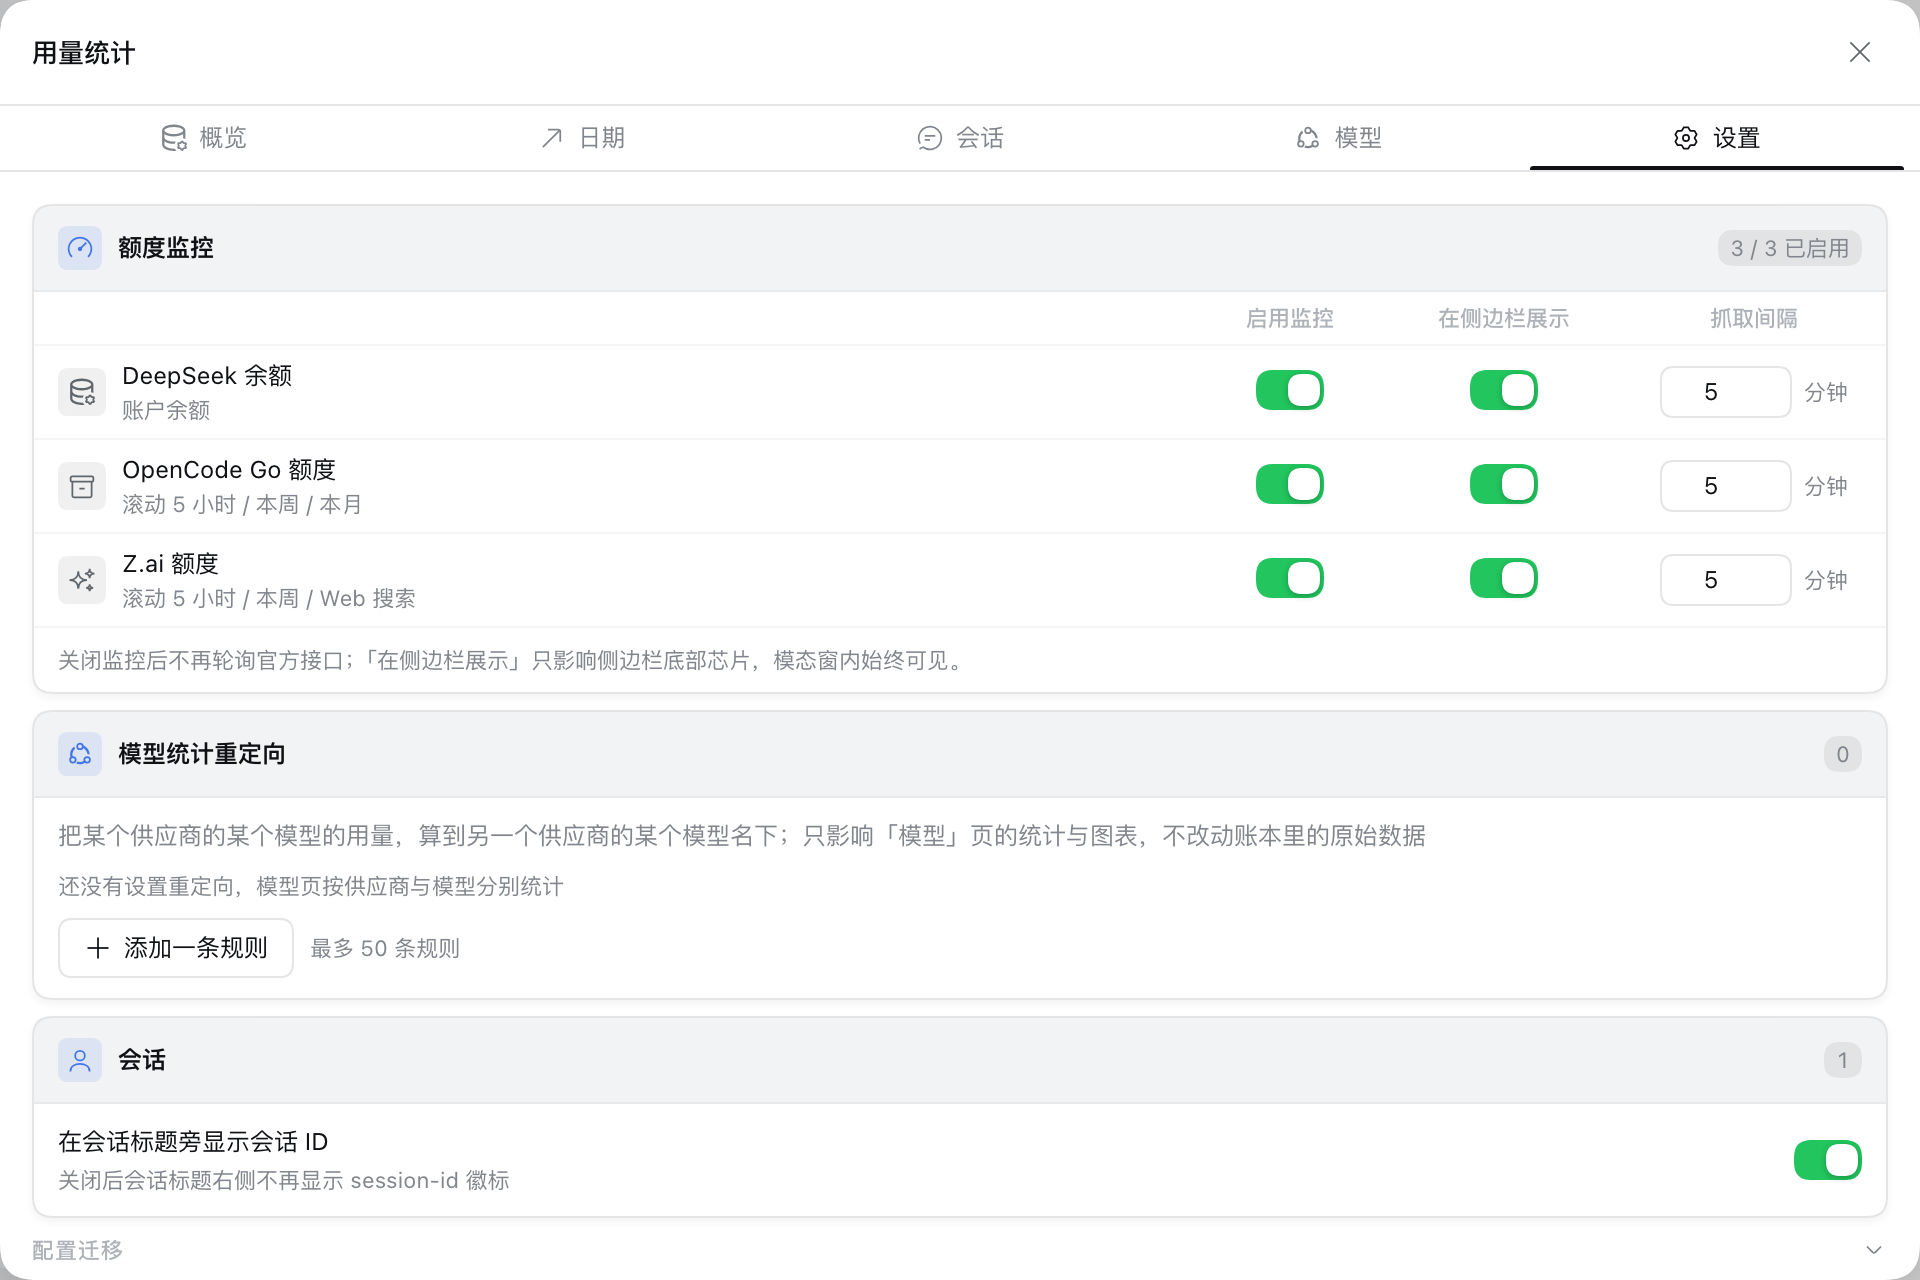
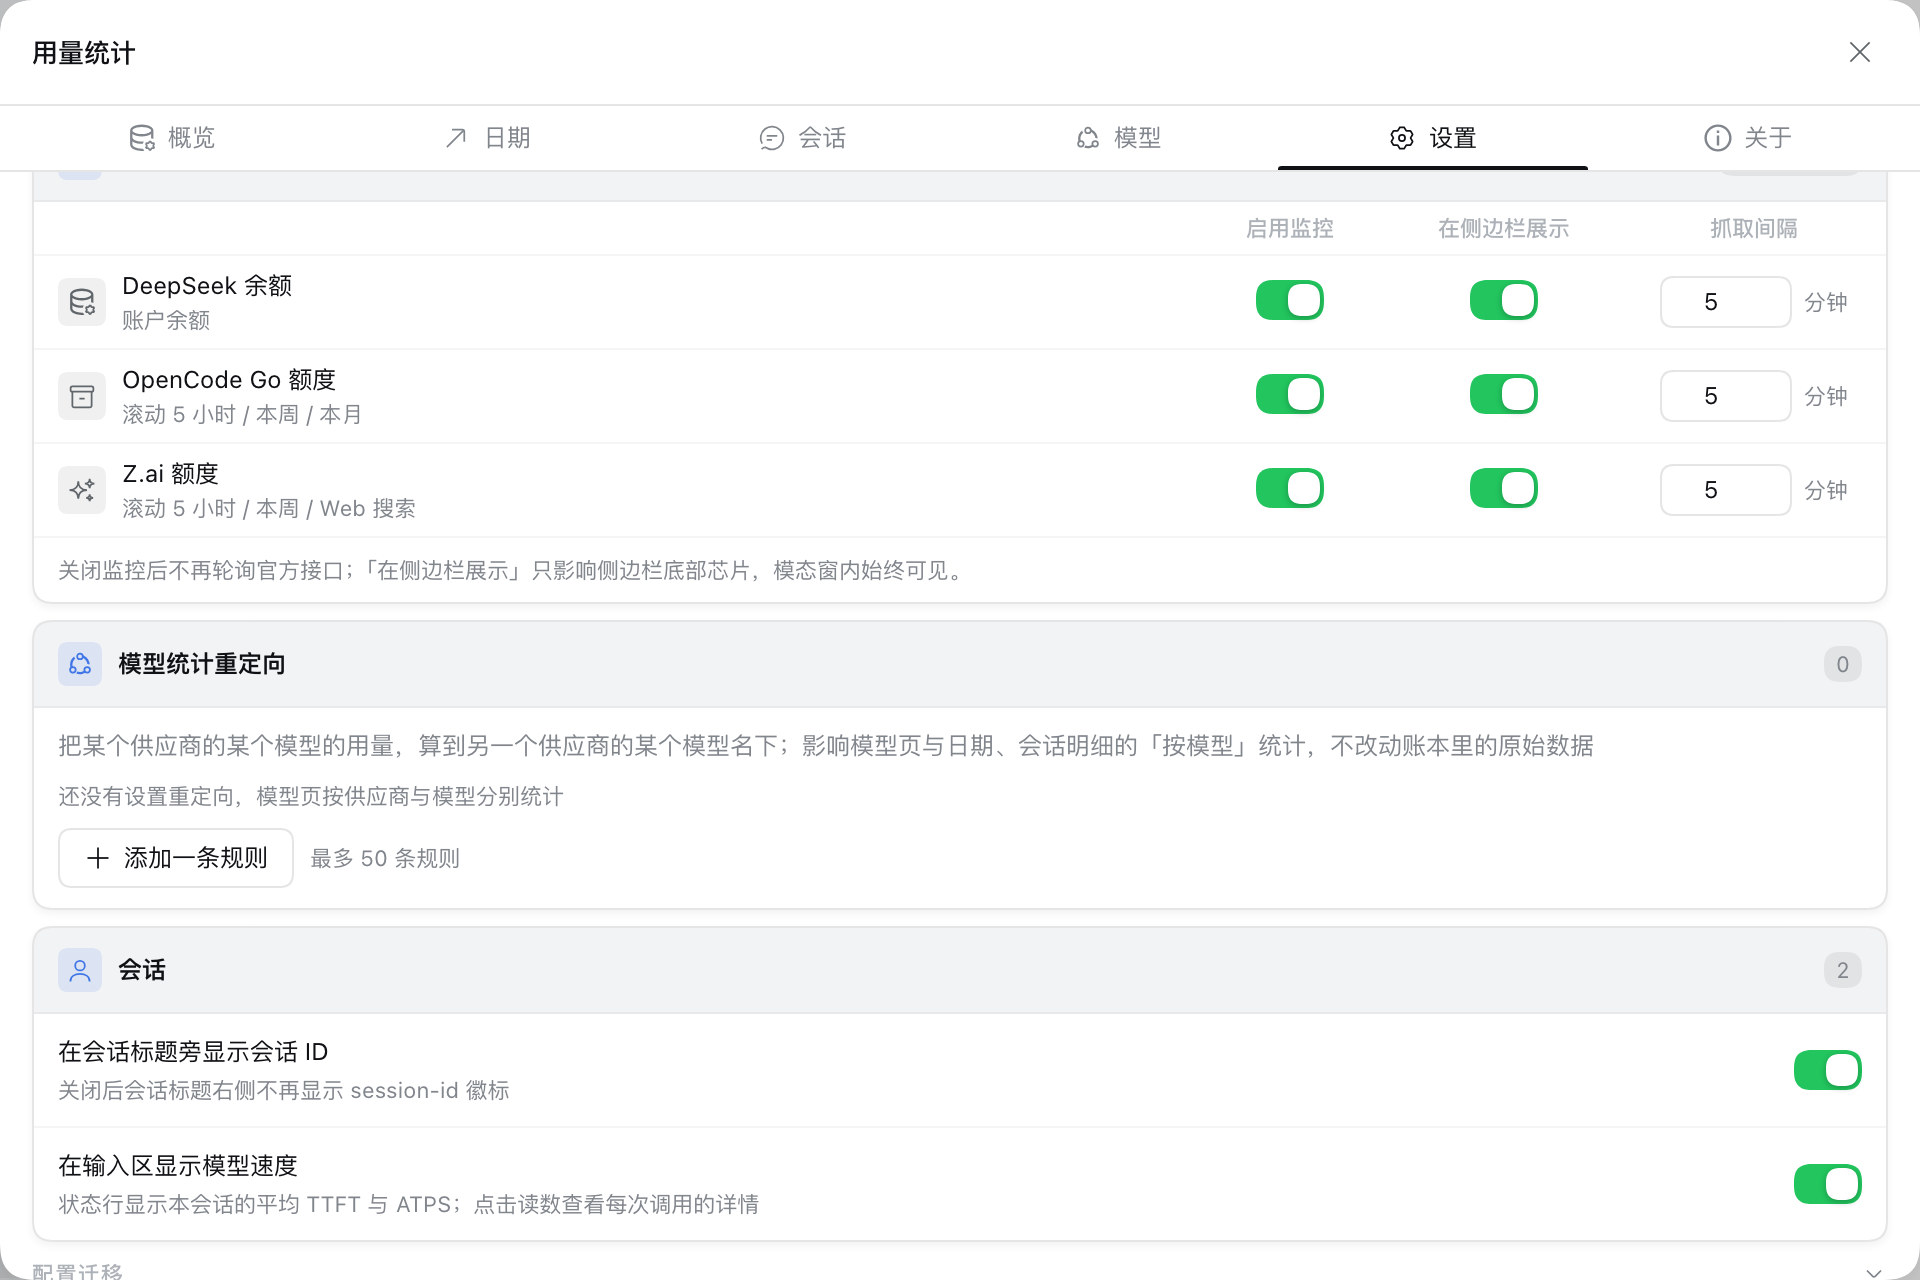
docs: 补充模型速度读数与设置开关说明
- ARCHITECTURE 新增第 7 节，作为 TTFT/ATPS 口径、阶段判定与开关门控的唯一权威；API 设置表加 modelSpeedEnabled 并指向该节。
- README 功能与设置说明、CHANGELOG 的 Unreleased 条目（含旧独立插件的卸载提示）。
- 设置页截图按新的「会话」分组重拍（1920×1280 原图 + 140×93 缩略图）。
- STRUCTURE 重新生成；AGENTS 验证清单与发版技能补 test/speed.mjs。

diff --git a/docs/STRUCTURE.md b/docs/STRUCTURE.md
@@ -76,6 +76,16 @@ dsh-usage-stats/
 │   │   │   ├── Tooltip.module.css ← 自实现 Tooltip：视觉完全复刻 dsh 自带的 Tooltip.module.css（size m、无箭头）。
 │   │   │   ├── Tooltip.tsx ← 富内容 Tooltip：为需要多行排版或跟随鼠标的气泡提供 `content` 插槽与 `follow` 定位。
 │   │   │   └── UsageStatsCommon.module.css ← 用量统计模态窗内跨组件共用的样式基元：分区头、统计磁贴/单元格、空态、 表格、Tab 栏、通用提示等。
+│   │   ├── speed/
+│   │   │   ├── chart.ts ← 详情卡小图表的纯几何计算：每次调用一根 ATPS 柱 + TTFT 折线，两套纵轴各自缩放。
+│   │   │   ├── events.ts ← 会话事件窗口 → 速度汇总的折叠与增量存储。
+│   │   │   ├── ModelSpeedDock.tsx ← 输入区状态行读数条目的入口：按设置门控，并在挂载期间维护一个会话速度存储。
+│   │   │   ├── ModelSpeedPill.module.css ← 输入区状态行的常驻读数，以及点击后弹出的详情卡。
+│   │   │   ├── ModelSpeedPill.tsx ← 输入区状态行上的模型速度读数：常驻显示当前会话的平均 TTFT / ATPS，点击弹出详情卡。
+│   │   │   ├── phase.ts ← 会话阶段判定：状态行图标和详情卡状态文案共用这一套口径。
+│   │   │   ├── SpeedChart.module.css ← 详情卡顶部的双轴小图表：ATPS 柱 + TTFT 折线。
+│   │   │   ├── SpeedChart.tsx ← 详情卡顶部的模型速度小图表：每次调用一根 ATPS 柱，TTFT 用折线叠加（两套纵轴各自缩放）。
+│   │   │   └── stats.ts ← 模型速度纯计算：把会话事件窗口折算成每次模型调用的样本与统计量。
 │   │   ├── views/
 │   │   │   ├── AboutTab.module.css ← 「关于」Tab AboutTab：品牌区、数据与隐私 / 链接双栏卡片、统计口径条与页脚， 尺寸按 960x640 设计稿换算；颜色全部使用设计 token，窄视口（≤800px）双栏改单列。
 │   │   │   ├── AboutTab.tsx ← 「关于」Tab：品牌区、数据与隐私、外链入口、统计口径条与构建信息。
@@ -119,7 +129,7 @@ dsh-usage-stats/
 │   │   │   └── UsageStatsPanel.tsx ← 用量统计的详情视图：侧边栏底部按钮打开的居中模态窗，头部 + Tab 栏 + 内容区。
 │   │   ├── api.ts ← usageStats 命名空间的浏览器端调用约定：调用前经 usageStatsRemote() 取命名空间服务。
 │   │   ├── configTransfer.ts ← 配置串编解码：把整份偏好打包成可复制粘贴的 Base64 文本，并反向解析。
-│   │   ├── index.ts ← 用量统计的浏览器端入口：侧边栏底部动作（今日统计角标 + 模态窗详情）与会话标题旁的 session-id 徽标。
+│   │   ├── index.ts ← 用量统计的浏览器端入口：侧边栏底部动作（今日统计角标 + 模态窗详情）、会话标题旁的 session-id 徽标与输入区状态行的模型速度读数。
 │   │   ├── locales.ts ← 用量统计界面文案字典，类型化写法与 harness 的 ui-cordis 命名空间一致。
 │   │   ├── remote.ts ← usageStats 命名空间的浏览器端挂载与调用入口：apply 内挂载手写贡献，hooks 经 usageStatsRemote() 取服务。
 │   │   ├── settings.ts ← 浏览器端插件偏好存储：绑定服务端 `usage-stats` 插件条目（profile 配置文档里的 Loader 条目）的设置表单。
@@ -166,6 +176,7 @@ dsh-usage-stats/
 │   ├── pure.mjs ← 纯逻辑、账本折叠与协议/偏好逻辑的单测（node:test + 类型剥离直引源码）。
 │   ├── session-events.jsonl
 │   ├── smoke.mjs ← 用量统计服务端 Remote 方法的独立冒烟测试（账本模式，自管理 sqlite 介质）。
+│   ├── speed.mjs ← 模型速度纯逻辑单测：事件折叠、统计口径、格式化、图表几何、增量存储与阶段判定。
 │   └── styles.mjs ← 样式契约单测：本插件全部 *.module.css 只允许引用 dsh 主题真实声明的设计变量。
 ├── .gitignore ← git 忽略规则（不入库清单：产物 / 锁目录 / 本机私有）
 ├── AGENTS.md ← 工程规范（注入的规则文件；仅规则变化时改，结构现状不进这里）

diff --git a/docs/ARCHITECTURE.md b/docs/ARCHITECTURE.md
@@ -1,7 +1,8 @@
 # 架构与统计口径（ARCHITECTURE.md）
 
 > 本文件是插件运行机制与统计口径的**唯一权威**：数据流、折叠与去重、fork 继承前缀、
-> 清零墓碑、精确口径与产物形态；只写跨文件机制事实。规则在 `AGENTS.md`，协议在 `docs/API.md`。
+> 清零墓碑、精确口径、模型速度读数与产物形态；只写跨文件机制事实。规则在 `AGENTS.md`，
+> 协议在 `docs/API.md`。
 
 ## 1. 总则
 
@@ -114,3 +115,22 @@
   `<style data-plugin-css>` 注入（源码仍是真实 CSS Modules）。
 - 品牌图：`scripts/svg-raw.mjs` 把 `icon.svg?raw` 编译成导出 SVG 文本的模块，「关于」页在构建期
   内联包根 `icon.svg`，与插件列表共用同一文件；改图标后重建客户端即可同步（列表侧由 Host 实时读文件）。
+
+## 7. 模型速度读数（浏览器端，不进账本）
+
+- 形态：输入区状态行（`conversation.composer.dock`，entry id `dsh-usage-stats-speed`）的只读读数，
+  点击弹出详情卡（每次调用的 ATPS 柱 + TTFT 折线，平均/最近/最小/最大表）。只读当前会话的客户端
+  事件窗口（`ctx.sessions.binding(sessionId).eventSource`），不发请求、不写账本；设置
+  `modelSpeedEnabled`（默认开）关闭时 entry 渲染空，不建会话事件订阅；偏好未落定前同样先不挂载，
+  存储随条目挂载而建、随卸载（切走会话或关闭开关）解绑。
+- 一次调用 = 一个 `assistant/message`，`step/start` 是该 step 的起点（turn:step 组合键）。
+- TTFT = `step/start` → stream 第一个 token 增量；重试步取第一条 `assistant/attempt` 的首 token
+  （与 dsh 自身的会话速度口径一致）。
+- ATPS = provider 报告的 `usage.outputTokens` ÷ `step/start` → `assistant/message` 的总用时
+  （含首 token 等待与重试）。平均 TTFT 为每次调用等权平均；平均 ATPS = 总输出 tokens ÷ 总用时
+  （加权）。最小/最大/最近只取有效值；缺 usage、缺 `step/start` 或总用时为 0 的调用不可测量。
+- 只统计当前客户端已加载的事件窗口：极长会话分页加载前只含已加载区间；刷新页面后历史会话可复现
+  （依赖 `assistant/message` 持久化的 stream）。窗口整体替换/前插时全量重建，追加时增量折叠；
+  流式 chunk 不触发重算，只在调用完成或阶段变化时刷新界面。
+- 阶段（生成中/工具调用中/压缩中/压缩完成/空闲）只看 durable 事件与 `binding.session.running`，
+  判定器在 `client/speed/phase.ts`。

diff --git a/README.md b/README.md
@@ -21,6 +21,7 @@ DSH 的 Web 用量统计插件，按模型、会话、日期三个维度统计 t
 - OpenCode Go 额度，展示滚动 5 小时、本周、本月三档已使用额度
 - Z.ai 额度，展示滚动 5 小时、本周已使用额度，以及每月 Web 搜索次数
 - 关于页：版本、数据与隐私说明、常用链接，以及检查更新；发现新版本可查看更新说明并一键升级，当前版本领先线上时显示「本地版本较新」
+- 输入区状态行显示本会话的模型速度：平均首字延迟（TTFT）与输出速度（ATPS），点开读数看每次调用的柱状图与平均/最近/最小/最大（设置里可关，默认开启）
 - 会话标题旁 session-id 徽标，支持一键复制
 
 ## 界面截图
@@ -90,7 +91,7 @@ dsh plugin --profile web remove @xfqz86/dsh-usage-stats
 
 设置位于详情面板的设置 Tab，保存在 DSH 该 profile 的配置文件 `$DSH_HOME/profiles/<profile>/cordis.patch.yml`（`$DSH_HOME` 未设置的情况下默认为 `~/.dsh`）的 `usage-stats` 条目里。配置文件只写改过的字段。
 
-设置 Tab 可改：三项额度监控的开关、是否在侧边栏展示、抓取间隔（最短 3 分钟），会话标题旁 session-id 徽标开关，以及模型统计重定向规则。
+设置 Tab 可改：三项额度监控的开关、是否在侧边栏展示、抓取间隔（最短 3 分钟），会话标题旁 session-id 徽标开关，输入区模型速度读数开关，以及模型统计重定向规则。
 
 设置 Tab 的「配置迁移」折叠区可以把当前偏好导出成一串配置串（Base64 文本，直接复制粘贴即可），在别的机器、别的 profile 的设置 Tab 里粘贴导入：导入以配置串为准整份覆盖，配置串里没有的项回到默认值，适合备份还原与两台机器对齐。
 

diff --git a/.agents/skills/release/SKILL.md b/.agents/skills/release/SKILL.md
@@ -41,7 +41,7 @@ node .agents/skills/release/scripts/release-preflight.mjs <版本号>
 | `docs/releases/v<版本>.md` | 面向用户的更新说明，**文件名即 tag**；缺失时 `release.yml` 直接失败，不会发布 |
 
 ### 3. 过验证门禁
-先跑 `AGENTS.md` §9 的全部命令（`tsc` / `eslint` / `pnpm tree:check` / `pnpm build` / `test/pure.mjs`、`test/smoke.mjs`、`test/styles.mjs`、`test/client-bundle.mjs` / 发布形态验证），再补装机实测——CI 与发布都走生产态，开发态看不出压缩与剪枝问题：
+先跑 `AGENTS.md` §9 的全部命令（`tsc` / `eslint` / `pnpm tree:check` / `pnpm build` / `test/pure.mjs`、`test/speed.mjs`、`test/smoke.mjs`、`test/styles.mjs`、`test/client-bundle.mjs` / 发布形态验证），再补装机实测——CI 与发布都走生产态，开发态看不出压缩与剪枝问题：
 
 ```bash
 node .agents/skills/release/scripts/verify-release.mjs   # 生产构建 → 出真 tarball → 包内容 / Remote 方法签名校验 → 还原开发态 lib/

diff --git a/docs/API.md b/docs/API.md
@@ -175,6 +175,7 @@
   | `showGoInSidebar` / `showDeepSeekInSidebar` / `showZaiInSidebar` | `true` | 只门控侧边栏底部芯片（含宽列与 rail），模态窗内详情仍可见 |
   | `goFetchMinutes` / `deepseekFetchMinutes` / `zaiFetchMinutes` | `5`（下限 3） | 抓取间隔，作为对应请求的 `intervalMinutes`，服务端据此调整 TTL |
   | `showSessionId` | `true` | 会话标题右侧 session-id 徽标开关：关闭后 `conversation.session.header.utilities` 的徽标 entry 渲染空 |
+  | `modelSpeedEnabled` | `true` | 输入区状态行的模型速度读数开关，门控与口径见 `docs/ARCHITECTURE.md` §7 |
   | `modelRedirects` | `[]` | 模型统计重定向规则表，见下 |
   | `modelGroupMode` | `'none'` | 模型表分组记忆，三处模型表共用同一选择；只收三值之一，非法回落 `'none'` |
   | `timeRange` | `'365d'` | 时间范围记忆，模型页与日期页共用同一选择；只收七值之一，非法回落 `'365d'` |

diff --git a/CHANGELOG.md b/CHANGELOG.md
@@ -10,6 +10,7 @@
 
 - **模型表可以分组看**：模型页与日期、会话明细里的模型表都能按厂商或按模型分组，同名模型跨厂商合并成一行、点加号展开看明细；分组与时间范围的选择会被记住（日期页与模型页共用同一个时间记忆），下次打开保持，点选即时生效
 - **专属图标**：dsh 的插件列表与面板「关于」页现在使用同一枚本插件图标（上升柱 + 趋势线），不再显示默认占位图，更容易一眼认出来
+- **输入区能看模型速度**：状态行常驻显示当前会话的平均首字延迟（TTFT）与输出速度（ATPS），点开读数看每次调用的柱状图与平均/最近/最小/最大；设置 Tab 的「会话」分组里可以关掉，默认开启（原 dsh-model-speed 插件并入本插件，装过旧插件的先 `dsh plugin --profile web remove dsh-model-speed`，否则会看到两个读数）
 
 ## [0.5.2] - 2026-10-22
 

diff --git a/AGENTS.md b/AGENTS.md
@@ -77,6 +77,7 @@ npx eslint .              # 0 errors 为门禁
 pnpm tree:check           # docs/STRUCTURE.md 与真实结构一致（CI 同款门禁）
 pnpm build
 node --experimental-strip-types test/pure.mjs
+node --experimental-strip-types test/speed.mjs
 node --experimental-strip-types test/smoke.mjs
 node --experimental-strip-types test/styles.mjs
 node test/client-bundle.mjs
